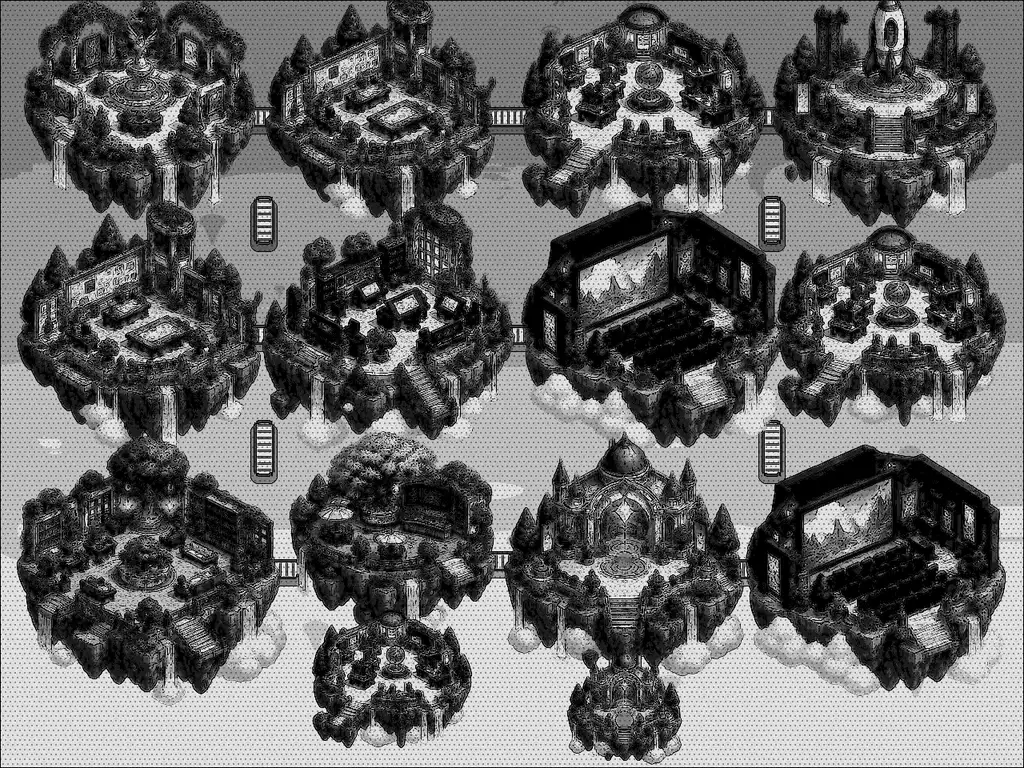
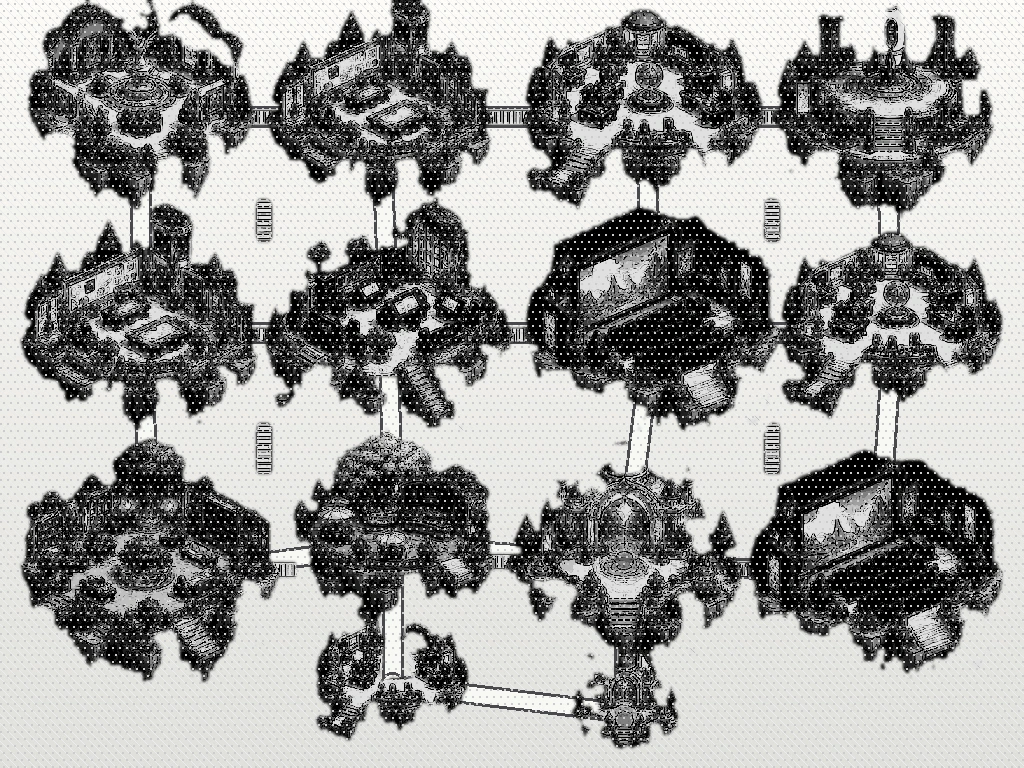
fix(studio): finalize all-pages spatial art closure

diff --git a/apps/web/src/domains/creator/virtual-space/StudioVirtualSpacePhaserCanvas.tsx b/apps/web/src/domains/creator/virtual-space/StudioVirtualSpacePhaserCanvas.tsx
@@ -176,17 +176,17 @@ function activityState(
 }
 
 function interactionMarkerText(interaction: StudioWorldInteractionDefinition): string {
-  const emojiByAction: Record<string, string> = {
-    assistant: "🤖",
-    assets: "📦",
-    canvas: "🎨",
-    community: "☕",
-    comic: "🖼",
-    live: "🎬",
-    review: "✅",
-    story: "📝",
+  const glyphByAction: Record<string, string> = {
+    assistant: "AI",
+    assets: "AS",
+    canvas: "DR",
+    community: "CO",
+    comic: "SB",
+    live: "LV",
+    review: "RV",
+    story: "ST",
   };
-  return emojiByAction[interaction.action] ?? "✦";
+  return glyphByAction[interaction.action] ?? "GO";
 }
 
 function propTextureKey(prop: StudioWorldPropDefinition): string {
@@ -333,7 +333,7 @@ export function StudioVirtualSpacePhaserCanvas({
       cleanup.push(() => npcDirector.dispose());
       let lastGuideRequestId: string | null = null;
       let lastGuideState = "";
-      const interactionMarkers = new Map<string, import("phaser").GameObjects.Text>();
+      const interactionMarkers = new Map<string, import("phaser").GameObjects.Container>();
       const interactions = studioWorldInteractions(manifest);
       const portals = studioWorldPortals(manifest);
       const backgroundTextureKey = `studio-world-background-${manifest.backgroundAssetKey}-${artStyle}`;
@@ -816,14 +816,22 @@ export function StudioVirtualSpacePhaserCanvas({
           fontSize: "24px", backgroundColor: "#182332", padding: { x: 6, y: 4 },
         }).setOrigin(0.5).setDepth(160_000).setVisible(false);
         for (const interaction of interactions) {
-          const marker = this.add.text(interaction.point.x, interaction.point.y, interactionMarkerText(interaction), {
-            fontSize: "18px",
-            backgroundColor: "#111827b8",
-            padding: { x: 5, y: 4 },
-          }).setOrigin(0.5)
+          const markerPlate = this.add.graphics();
+          markerPlate.fillStyle(artProfile.palette.background, 0.58).fillCircle(0, 0, 14);
+          markerPlate.lineStyle(2, artProfile.palette.gate, 0.9).strokeCircle(0, 0, 12);
+          markerPlate.fillStyle(artProfile.palette.accent, 0.92).fillCircle(0, 0, 8);
+          const markerGlyph = this.add.text(0, 0, interactionMarkerText(interaction), {
+            fontFamily: artProfile.pixelated ? "ui-monospace, SFMono-Regular, Menlo, monospace" : "Inter, Pretendard, sans-serif",
+            fontSize: artProfile.pixelated ? "7px" : "8px",
+            fontStyle: "bold",
+            color: "#ffffff",
+          }).setOrigin(0.5);
+          const marker = this.add.container(interaction.point.x, interaction.point.y, [markerPlate, markerGlyph])
+            .setSize(30, 30)
             .setDepth(150_000)
-            .setAlpha(0.62)
-            .setInteractive({ useHandCursor: true });
+            .setAlpha(0.68)
+            .setInteractive(new Phaser.Geom.Circle(0, 0, 17), Phaser.Geom.Circle.Contains);
+          marker.input!.cursor = "pointer";
           marker.on(
             "pointerdown",
             (
@@ -1277,7 +1285,7 @@ export function StudioVirtualSpacePhaserCanvas({
         zoneVeil?.clear();
         if (zone.separated && zone.rect) {
           const rect = zone.rect;
-          const veil = reducedMotion.matches ? 0.42 : 0.55;
+          const veil = artProfile.key === "neon" ? 0.18 : reducedMotion.matches ? 0.22 : 0.28;
           zoneVeil?.fillStyle(0x07060b, veil);
           zoneVeil?.fillRect(0, 0, manifest.width, rect.y);
           zoneVeil?.fillRect(0, rect.y, rect.x, rect.height);

diff --git a/scripts/generate-virtual-studio-art-v4.py b/scripts/generate-virtual-studio-art-v4.py
@@ -8,10 +8,12 @@ from __future__ import annotations
 
 import hashlib
 import json
+import random
+from collections import deque
 from pathlib import Path
 from typing import Final
 
-from PIL import Image, ImageChops, ImageEnhance, ImageFilter, ImageOps
+from PIL import Image, ImageChops, ImageDraw, ImageEnhance, ImageFilter, ImageOps
 
 ROOT: Final = Path(__file__).resolve().parents[1] / "apps/web/public/assets/virtual-studio"
 NPC_ROOT: Final = ROOT / "npc-cast-v4"
@@ -73,6 +75,140 @@ def transform(image: Image.Image, style: str) -> Image.Image:
     return image
 
 
+
+WORLD_CENTERS: Final = {
+    "assets": (140, 116), "storyboard": (380, 116), "production": (644, 116), "release": (884, 116),
+    "writers": (140, 332), "drawing": (388, 332), "review": (652, 332), "quality": (892, 332),
+    "teams": (152, 576), "lounge": (392, 544), "live": (624, 560), "meeting": (876, 576),
+    "assistant": (392, 684), "lobby": (624, 712),
+}
+WORLD_EDGES: Final = (
+    ("assets", "storyboard"), ("storyboard", "production"), ("production", "release"),
+    ("writers", "drawing"), ("drawing", "review"), ("review", "quality"),
+    ("teams", "lounge"), ("lounge", "live"), ("live", "meeting"),
+    ("assets", "writers"), ("storyboard", "drawing"), ("production", "review"), ("release", "quality"),
+    ("writers", "teams"), ("drawing", "lounge"), ("review", "live"), ("quality", "meeting"),
+    ("lounge", "assistant"), ("live", "lobby"), ("assistant", "lobby"),
+)
+
+
+def connected_sky_mask(image: Image.Image) -> Image.Image:
+    """Select only border-connected sky/cloud pixels so architecture remains intact."""
+    rgb = image.convert("RGB")
+    width, height = rgb.size
+    pixels = rgb.load()
+    selected = bytearray(width * height)
+    visited = bytearray(width * height)
+    queue: deque[tuple[int, int]] = deque()
+
+    def candidate(x: int, y: int) -> bool:
+        r, g, b = pixels[x, y]
+        return b >= 112 and b >= r * 1.07 and b >= g * 0.91 and (b - min(r, g)) >= 20
+
+    for x in range(width):
+        for y in (0, height - 1):
+            if candidate(x, y): queue.append((x, y))
+    for y in range(height):
+        for x in (0, width - 1):
+            if candidate(x, y): queue.append((x, y))
+    while queue:
+        x, y = queue.popleft()
+        index = y * width + x
+        if visited[index]: continue
+        visited[index] = 1
+        if not candidate(x, y): continue
+        selected[index] = 255
+        if x: queue.append((x - 1, y))
+        if x + 1 < width: queue.append((x + 1, y))
+        if y: queue.append((x, y - 1))
+        if y + 1 < height: queue.append((x, y + 1))
+    return Image.frombytes("L", (width, height), bytes(selected)).filter(ImageFilter.MaxFilter(5)).filter(ImageFilter.GaussianBlur(1.2))
+
+
+def vertical_gradient(size: tuple[int, int], top: tuple[int, int, int], bottom: tuple[int, int, int]) -> Image.Image:
+    width, height = size
+    canvas = Image.new("RGBA", size)
+    draw = ImageDraw.Draw(canvas)
+    for y in range(height):
+        ratio = y / max(1, height - 1)
+        color = tuple(round(a * (1 - ratio) + b * ratio) for a, b in zip(top, bottom))
+        draw.line((0, y, width, y), fill=(*color, 255))
+    return canvas
+
+
+def draw_world_connections(background: Image.Image, style: str) -> None:
+    draw = ImageDraw.Draw(background, "RGBA")
+    if style == "webtoon":
+        colors, widths = ((255, 246, 221, 225), (157, 118, 91, 150)), (24, 32)
+    elif style == "pastel":
+        colors, widths = ((255, 246, 255, 220), (189, 157, 224, 125)), (28, 38)
+    elif style == "retro":
+        colors, widths = ((239, 205, 105, 255), (36, 46, 70, 255)), (12, 20)
+    elif style == "ink":
+        colors, widths = ((248, 248, 244, 255), (35, 35, 39, 210)), (16, 22)
+    else:
+        colors, widths = ((55, 230, 255, 210), (195, 67, 255, 130)), (8, 24)
+    for left, right in WORLD_EDGES:
+        a, b = WORLD_CENTERS[left], WORLD_CENTERS[right]
+        draw.line((*a, *b), fill=colors[1], width=widths[1])
+        draw.line((*a, *b), fill=colors[0], width=widths[0])
+    for point in WORLD_CENTERS.values():
+        radius = 9 if style == "retro" else 12
+        draw.ellipse((point[0] - radius, point[1] - radius, point[0] + radius, point[1] + radius), fill=colors[0], outline=colors[1], width=3)
+
+
+def world_background(style: str, size: tuple[int, int]) -> Image.Image:
+    if style == "webtoon":
+        image = vertical_gradient(size, (232, 244, 250), (255, 226, 202))
+    elif style == "pastel":
+        image = vertical_gradient(size, (235, 224, 255), (255, 235, 246))
+    elif style == "retro":
+        image = vertical_gradient(size, (32, 45, 69), (24, 72, 66))
+    elif style == "ink":
+        image = vertical_gradient(size, (252, 251, 247), (224, 224, 220))
+    else:
+        image = vertical_gradient(size, (5, 8, 28), (18, 15, 53))
+    draw = ImageDraw.Draw(image, "RGBA")
+    width, height = size
+    rng = random.Random({"webtoon": 11, "pastel": 23, "retro": 37, "ink": 41, "neon": 53}[style])
+    if style in {"webtoon", "pastel"}:
+        # The campus art already carries clouds and foliage; keep the open sky clean so room-focus
+        # overlays never turn decorative marks into visual noise.
+        pass
+    elif style == "retro":
+        for x in range(0, width, 16): draw.line((x, 0, x, height), fill=(110, 145, 139, 35), width=1)
+        for y in range(0, height, 16): draw.line((0, y, width, y), fill=(110, 145, 139, 35), width=1)
+    elif style == "ink":
+        for x in range(-height, width, 9): draw.line((x, 0, x + height, height), fill=(32, 32, 36, 22), width=1)
+    else:
+        for _ in range(180):
+            x, y = rng.randrange(width), rng.randrange(height)
+            color = (80, 222, 255, rng.randrange(45, 150)) if rng.random() < .6 else (224, 93, 255, rng.randrange(35, 120))
+            draw.point((x, y), fill=color)
+    draw_world_connections(image, style)
+    return image
+
+
+def style_world(source: Image.Image, style: str) -> Image.Image:
+    source = source.convert("RGBA")
+    if style == "sky-island": return source
+    sky = connected_sky_mask(source)
+    architecture = source.copy() if style == "retro" else transform(source, style)
+    background = world_background(style, source.size)
+    composed = Image.composite(background, architecture, sky)
+    if style == "retro":
+        small = composed.resize((256, 192), Image.Resampling.BOX)
+        small = ImageEnhance.Color(small).enhance(0.86)
+        small = ImageEnhance.Contrast(small).enhance(1.16)
+        indexed = small.convert("RGB").quantize(colors=56, method=Image.Quantize.MEDIANCUT, dither=Image.Dither.NONE).convert("RGBA")
+        composed = indexed.resize(source.size, Image.Resampling.NEAREST)
+    elif style == "ink":
+        draw = ImageDraw.Draw(composed, "RGBA")
+        for y in range(3, composed.height, 7):
+            for x in range((y // 7) % 2 * 3, composed.width, 7):
+                draw.ellipse((x, y, x + 1, y + 1), fill=(20, 20, 23, 55))
+    return composed
+
 def save_webp(image: Image.Image, path: Path, style: str) -> None:
     path.parent.mkdir(parents=True, exist_ok=True)
     if style == "retro":
@@ -106,17 +242,21 @@ def main() -> None:
         for style in STYLES:
             build_role(role, sheet, STYLE_ROOT / style / "npc-cast-v4", style)
 
-    # The generated campus art is the visible source of truth for each architecture direction.
+    # Keep one authored high-detail floating-island source while generating materially different
+    # architecture treatments that preserve the same production-room coordinates and permissions.
+    sky_source = Image.open(ART_ROOT / "world" / "sky-island.webp").convert("RGBA")
     for style in ("sky-island", "webtoon", "pastel", "retro", "ink", "neon"):
         source = ART_ROOT / "world" / f"{style}.webp"
-        if source.exists():
-            target = STYLE_ROOT / style / "tiles" / "world-base.webp"
-            target.parent.mkdir(parents=True, exist_ok=True)
-            target.write_bytes(source.read_bytes())
+        if style != "sky-island":
+            save_webp(style_world(sky_source, style), source, style)
+        target = STYLE_ROOT / style / "tiles" / "world-base.webp"
+        target.parent.mkdir(parents=True, exist_ok=True)
+        target.write_bytes(source.read_bytes())
 
     files = []
     roots = [NPC_ROOT, ART_ROOT]
     roots.extend(STYLE_ROOT / style / "npc-cast-v4" for style in STYLES)
+    roots.extend(STYLE_ROOT / style / "tiles" for style in ("sky-island", "webtoon", "pastel", "retro", "ink", "neon"))
     for root in roots:
         for path in sorted(root.rglob("*.webp")):
             with Image.open(path) as image:

diff --git a/docs/studio/virtual-studio-all-pages-closure-20260924.md b/docs/studio/virtual-studio-all-pages-closure-20260924.md
@@ -31,7 +31,7 @@ Environment certification is recorded separately. A green component test does no
 | Exact return | Project/work/document/query identity is preserved through spatial transitions. | campus return resolver and route contract tests |
 | Safe fallback | GPU or scene failure leaves the canonical work route available. | campus error/fallback contracts |
 | World authoring | Validated manifests, templates, registered rules, publication CAS, and safe adoption remain separate from arbitrary code. | world template/rule/publication modules |
-| Art and movement | Six art directions, independent NPC cast, fixed-step motion, collision, pathfinding, and reduced-motion handling. | Virtual Studio v3 art/physics tests and asset verifier |
+| Art and movement | Six materially distinct architecture directions, independent eight-role NPC source sheets, style-specific player/NPC runtime art, fixed-step motion, collision, pathfinding, and reduced-motion handling. | Virtual Studio v4 generated-art, style-distinction, physics, and asset-integrity tests |
 
 ## 3. Collaboration closure against VS-01–VS-30
 
